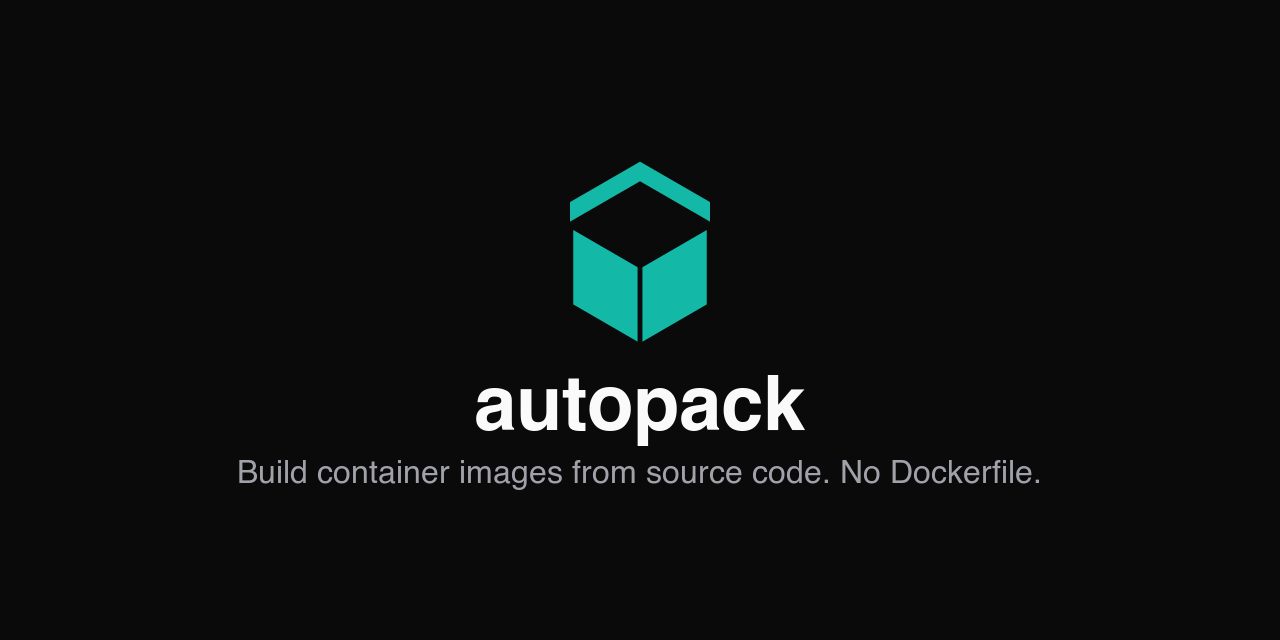
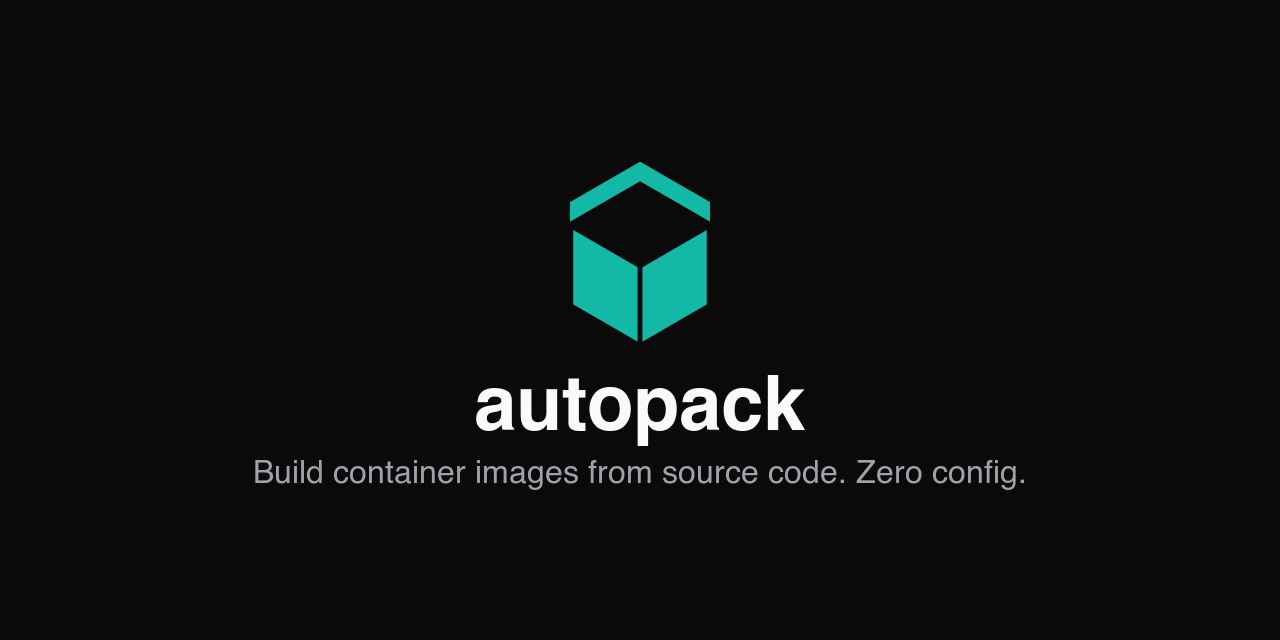
docs: stop claiming "No Dockerfile"
autopack generates a Dockerfile and builds it with BuildKit. The Dockerfile
backend is a whole crate, `autopack dockerfile` prints the thing, and the
README's own comparison table lists "Dockerfile → any BuildKit" as the build
backend — four lines under a hero that said there wasn't one.

The claim people actually care about is that they don't have to write or
maintain it, and that it works without configuration. "Zero config" says that
and is true: 23 of the 25 temps-examples starters build with no config file at
all.

Also says plainly that the generated Dockerfile is printable. That is a feature
rather than an embarrassment — it is what makes the output auditable and makes
walking away from autopack a copy-paste rather than a migration.

Covers the README hero and body, the CLI's `about` and module docs, and
autopack-core's crate docs, which now note that nothing in core emits a
Dockerfile at all — lowering is `autopack-dockerfile`'s job. Social preview
regenerated; the repository description is updated too.

Changed region(s): [[0.1875, 0.7188, 0.8125, 0.7812]]

diff --git a/crates/autopack-cli/src/main.rs b/crates/autopack-cli/src/main.rs
@@ -1,4 +1,4 @@
-//! `autopack` — build container images from source, with no Dockerfile.
+//! `autopack` — build container images from source, with zero configuration.
 
 use std::fs;
 use std::path::{Path, PathBuf};
@@ -14,7 +14,7 @@ use autopack_dockerfile::{to_dockerfile, to_dockerignore};
 #[command(
     name = "autopack",
     version,
-    about = "Build container images from source, with no Dockerfile",
+    about = "Build container images from source, with zero configuration",
     long_about = "autopack inspects a source directory, works out how to build and run it, \
                   and produces a container image.\n\n\
                   Configure it with an autopack.json file or AUTOPACK_* environment variables."

diff --git a/crates/autopack-core/src/lib.rs b/crates/autopack-core/src/lib.rs
@@ -1,8 +1,12 @@
 //! # autopack-core
 //!
-//! Turns a source directory into a [`BuildPlan`]: a backend-agnostic
-//! description of the steps, layers, caches and runtime image needed to build
-//! and run an application, with no Dockerfile required.
+//! Turns a source directory into a [`BuildPlan`]: a description of the steps,
+//! layers, caches and runtime image needed to build and run an application,
+//! worked out from the source rather than written by hand.
+//!
+//! The plan is backend-agnostic — nothing here emits a Dockerfile. Lowering it
+//! to one is the `autopack-dockerfile` crate's job, and is the only backend
+//! today.
 //!
 //! The pipeline is three stages:
 //!

diff --git a/README.md b/README.md
@@ -4,13 +4,18 @@
 
 <h1 align="center">autopack</h1>
 
-<p align="center">Build container images from source code. No Dockerfile.</p>
+<p align="center">Build container images from source code. Zero config.</p>
 
 
 autopack inspects a directory, works out what it is, and produces an OCI image
 with sensible caching and a runtime image that carries only what the app needs
 at run time. It is written in Rust, ships as a single binary, and is usable as a
 library.
+
+You don't write a Dockerfile — autopack generates one and builds it with
+BuildKit. It is not hidden: `autopack dockerfile` prints exactly what will be
+built, so you can read it, check it in, or walk away from autopack entirely
+without having to reverse-engineer anything.
 
 It is an alternative to [Railpack](https://railpack.com) and
 [Nixpacks](https://nixpacks.com), with the same core idea — analyse, plan,
